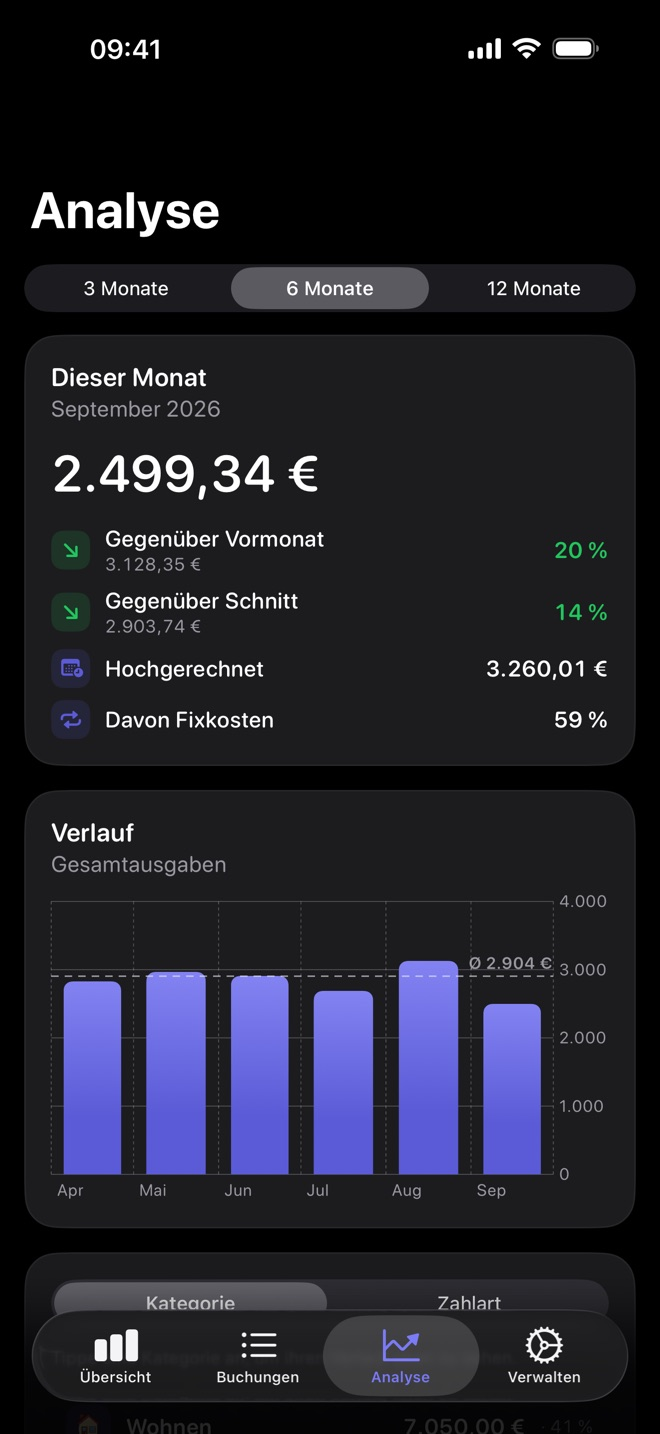
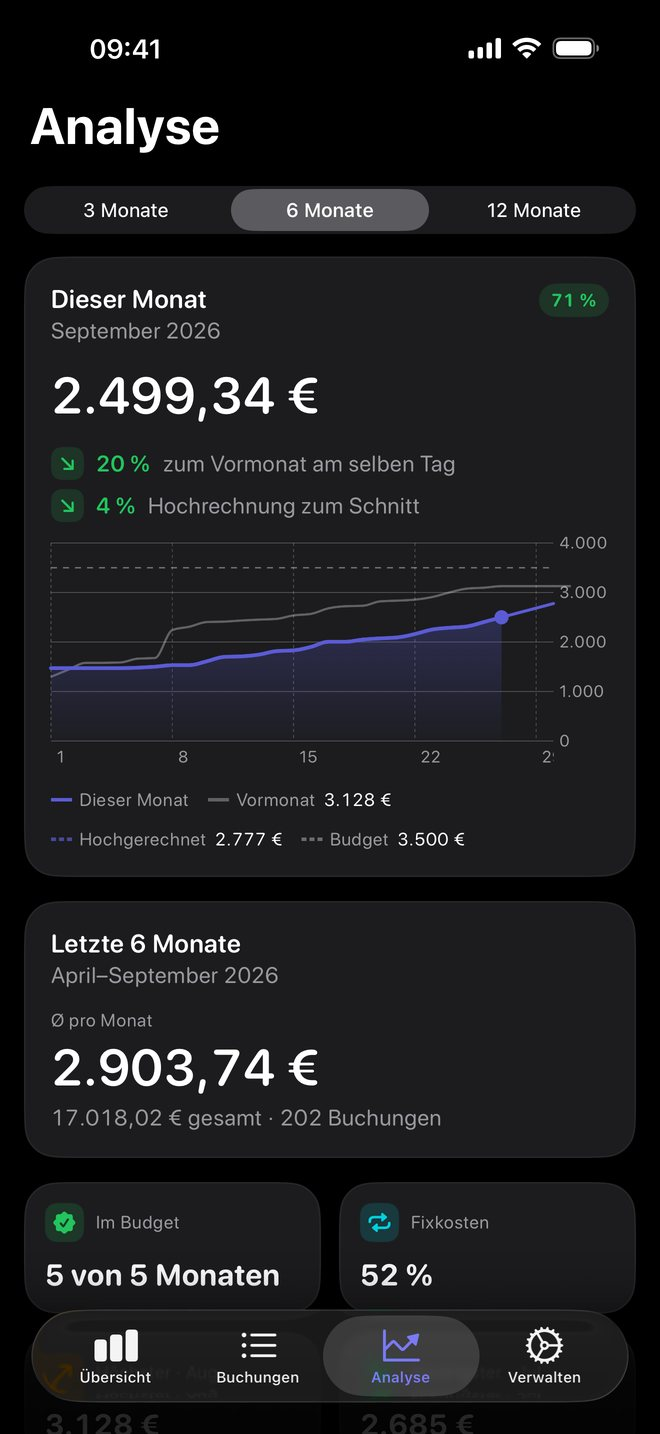
Analyse: neue Seite im Bild, Stichpunkte ergänzt
Das Analyse-Bild zeigt die überarbeitete Seite: der Monat Tag für Tag neben dem Vormonat, der faire Vergleich am selben Tag, Schnitt und Kennzahlen des Zeitraums. Die Stichpunkte nennen jetzt auch den Tagesverlauf, die grössten Posten und die Wochentage.

diff --git a/en/index.html b/en/index.html
@@ -466,14 +466,14 @@
         <h3>See where your money goes</h3>
         <p>How does this month compare with last month and with your average? Where will you end up if things keep going like this? My Budget does the math for you.</p>
         <ul class="checks">
-          <li><svg class="i" aria-hidden="true"><use href="#i-check"/></svg><span>History over three, six or twelve months</span></li>
-          <li><svg class="i" aria-hidden="true"><use href="#i-check"/></svg><span>Broken down by category and payment method</span></li>
+          <li><svg class="i" aria-hidden="true"><use href="#i-check"/></svg><span>The month day by day next to last month, plus the history over three, six or twelve months</span></li>
+          <li><svg class="i" aria-hidden="true"><use href="#i-check"/></svg><span>Broken down by category, payment method, top spending and weekday</span></li>
           <li><svg class="i" aria-hidden="true"><use href="#i-check"/></svg><span>A projection for the end of the month and the share of your recurring bills</span></li>
         </ul>
       </div>
       <figure class="media">
         <img class="shot" src="images/insights.jpg" width="660" height="1434" loading="lazy" decoding="async"
-             alt="Insights: $3,589.60 in September, 16 percent less than last month, plus the history of the last six months.">
+             alt="Insights: $3,589.60 in September, 16 percent less than last month on the same day, the month day by day next to last month, plus the average and key figures of the last six months.">
       </figure>
     </article>
 

diff --git a/index.html b/index.html
@@ -465,14 +465,14 @@
         <h3>Sehen, wohin das Geld geht</h3>
         <p>Wie steht der Monat im Vergleich zum Vormonat und zu deinem Schnitt? Wo landest du, wenn es so weitergeht? Monatskasse rechnet es dir aus.</p>
         <ul class="checks">
-          <li><svg class="i" aria-hidden="true"><use href="#i-check"/></svg><span>Verlauf über drei, sechs oder zwölf Monate</span></li>
-          <li><svg class="i" aria-hidden="true"><use href="#i-check"/></svg><span>Aufgeteilt nach Kategorien und Zahlarten</span></li>
+          <li><svg class="i" aria-hidden="true"><use href="#i-check"/></svg><span>Der Monat Tag für Tag neben dem Vormonat, dazu der Verlauf über drei, sechs oder zwölf Monate</span></li>
+          <li><svg class="i" aria-hidden="true"><use href="#i-check"/></svg><span>Aufgeteilt nach Kategorien, Zahlarten, größten Posten und Wochentagen</span></li>
           <li><svg class="i" aria-hidden="true"><use href="#i-check"/></svg><span>Hochrechnung aufs Monatsende und der Anteil deiner Fixkosten</span></li>
         </ul>
       </div>
       <figure class="media">
         <img class="shot" src="bilder/analyse.jpg" width="660" height="1434" loading="lazy" decoding="async"
-             alt="Analyse: 2.499,34 € im September, 20 Prozent weniger als im Vormonat, dazu der Verlauf der letzten sechs Monate.">
+             alt="Analyse: 2.499,34 € im September, 20 Prozent weniger als im Vormonat am selben Tag, der Monat Tag für Tag neben dem Vormonat, dazu Schnitt und Kennzahlen der letzten sechs Monate.">
       </figure>
     </article>
 
